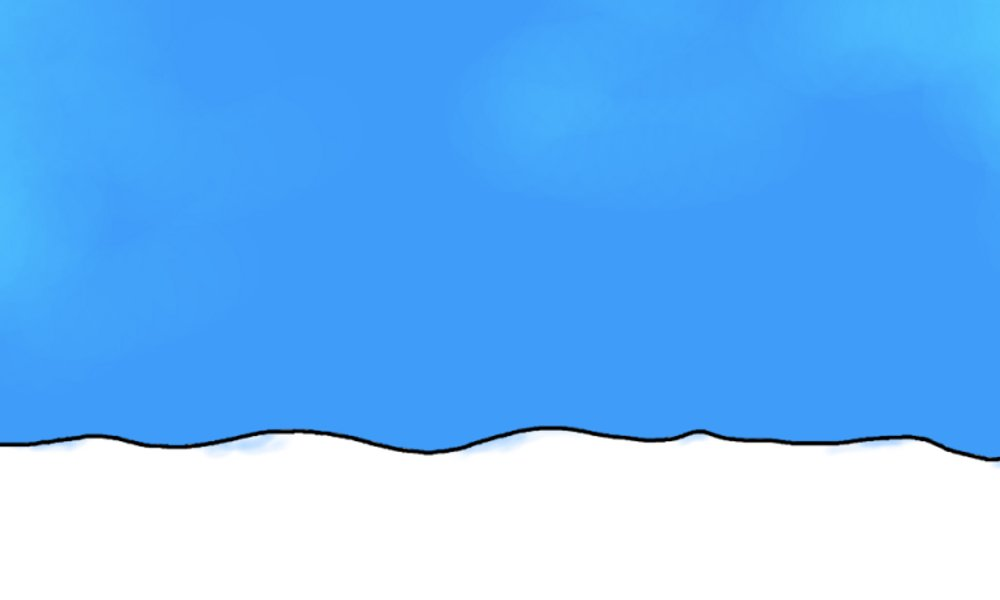
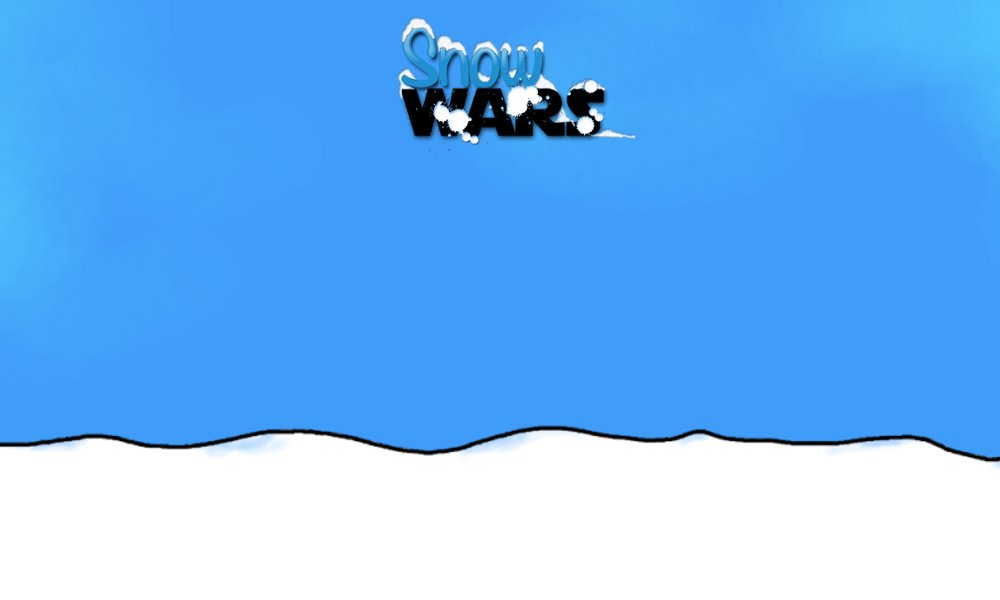
Changed background and snowflake-crash-effect

Changed region(s): [[0.372, 0.03, 0.651, 0.24]]

diff --git a/src/ch/hsr/se2p/snowwars/view/game/Snowball.java b/src/ch/hsr/se2p/snowwars/view/game/Snowball.java
@@ -8,12 +8,15 @@ public class Snowball {
 
 	private int x, y;
 	private double dy, dx;
-	private Image snowballImage;
+	private Image snowballImage, snowballCrashedImage;
 	boolean visible;
 
 	public Snowball(int angle, int strength) {
-		ImageIcon ii = new ImageIcon("img/snowflake.png");
-		snowballImage = ii.getImage();
+		ImageIcon snowFlakeII = new ImageIcon("img/snowflake.png");
+		ImageIcon snowFlakeCrashedII = new ImageIcon("img/snowflake_crashed.png");
+
+		snowballImage = snowFlakeII.getImage();
+		snowballCrashedImage = snowFlakeCrashedII.getImage();
 		visible = true;
 
 		this.x = Player.PLAYER_LEFT_POSITION_X + 50;
@@ -30,7 +33,11 @@ public class Snowball {
 	}
 
 	public Image getImage() {
-		return snowballImage;
+		if (visible) {
+			return snowballImage;
+		} else {
+			return snowballCrashedImage;
+		}
 	}
 
 	public int getX() {
